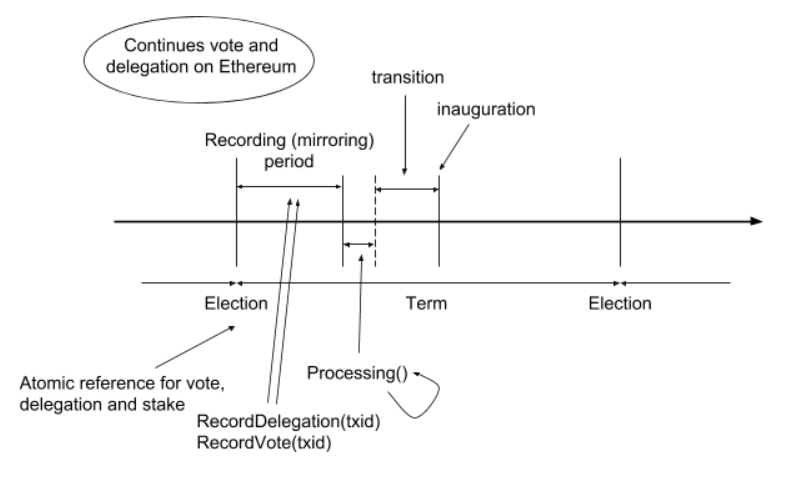
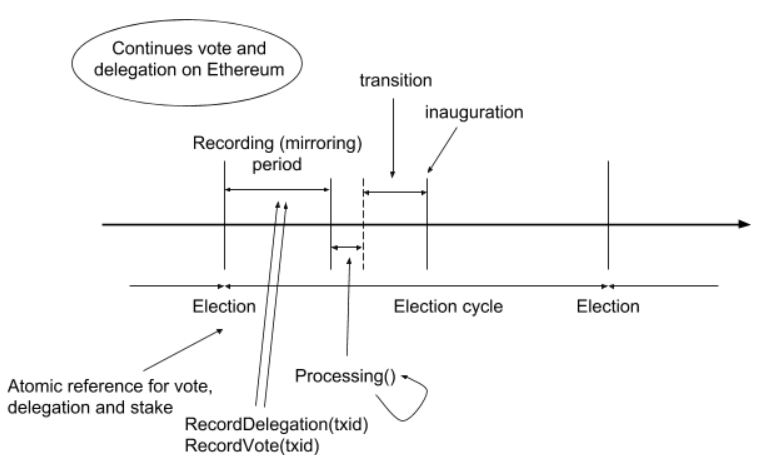
naming

Changed region(s): [[0.0, 0.1493, 0.9675, 0.9851], [0.0936, 0.0299, 0.4057, 0.2388]]

diff --git a/behaviors/flows/voting.md b/behaviors/flows/voting.md
@@ -1,6 +1,6 @@
 # Voting Flow
 
-The flow describes the voting for active delegates and nodes in Orbs.
+The flow describes the voting for activists and nodes in Orbs.
 
 ## Participants in this flow
 * Node candidates
@@ -11,8 +11,8 @@ The flow describes the voting for active delegates and nodes in Orbs.
   * An account that actively participates in Orbs voting.
   * An account is considered an active voter for a period of ACTIVE_VOTING_PERIOD days after voting.
   * Option to require active voters to undergo due-diligance.
-* Delegator
-  * An Orbs account / token holder that selected an active voter or anoher account (delegatee) to act on its behalf.
+* Stakeholder
+  * An Orbs account / stakeholder that selected an active voter or anoher account (delegatee) to act on its behalf.
 * Delegatee
   * An Orbs account that another account delegated its voting to.
 
@@ -23,26 +23,26 @@ The flow describes the voting for active delegates and nodes in Orbs.
 [hierarchical_voting]: ../_img/hierarchical_voting.png "hierarchical voting"
 
 #### Delegating votes
-* Every account (delegator) may delegate its stake to an another account
-  * Directly to an active voter or to another account.
+* Every stakeholder (address) may delegate its stake to an agent (address).
+  * The agent may be an activist or another stakeholder.
 * Delegation may be perfromed by 2 means:
   * Sending 7 Orbs-satoshi (7x10<sup>-18</sup> Orbs) to an address.
     * Generates a `Transfer(from, to, tokens = 7)` event.
   * Delegating by sending a transaction to Ethereum.OrbsVoring.delegate(address).
     * Generates a `Delegate(from, to)` event.
-* Delegation does not expire and requires delegation to another address in order to change it.
-  * Delegation to address 0 disables the delegation.
+* Delegation does not expire and requires delegation to another agent in order to change it.
+  * Delegation to address 0 cancels the delegation.
 * Once a delegation was performed by OrbsVoring contract it takes precedence over sending Orbs-stoshi (regardless of which action was performed later).
-* Note: the stake used for the voting is the delegator's stake at the election time. (and not the stake at the time of the delegation).
+* Note: the stake used for the voting is the stakeholder's stake at the election time. (and not the stake at the time of the delegation).
 
-#### Voting to nodes (by active voters)
-* An active delegate can vote by sending a transaction to Ethereum.OrbsVoring.vote([]address).
-* Optional: require the voter to be part of the verified_voters list.
-* A vote remains valid for 8 days (parameter.VOTING_VALIDITY_TIME)
-* The voting weight of a delegate is proportional to the total stake that was deleted to it. (hierarchical delegation)
-* Each delegate can vote to any numebr of nodes.
+#### Voting to nodes (by activists)
+* An activist can vote by sending a transaction to Ethereum.OrbsVoring.vote(address[]).
+  * Optional: require the activist to be part of the verified_activists list.
+* A vote remains valid for 8 days ~ 53169 blocks (parameter.VOTING_VALIDITY_TIME)
+* The voting weight of an activist is proportional to the total stake that was deleted to it. (hierarchical delegation)
+* Each activist can vote to any numebr of nodes.
 * Note: the voting weight is proportional to the number of voted nodes:
-  * When voting to N<=5(parameter.VOTES_PER_TOKEN) nodes, each node receives the delegates total voting weight.
+  * When voting to N<=5(parameter.VOTES_PER_TOKEN) nodes, each node receives the activist's total voting weight.
   * When voting to N>5 nodes, each node receives (5/N) of the weight.
 
 ## Election Flow
@@ -54,32 +54,33 @@ The flow describes the voting for active delegates and nodes in Orbs.
   * Election is performed every X Ethereum blocks, based on the state in block X.
     * Default: ~24 hours (in blocks)
   * Votes and delegations that were done up to the block_height (inclusive) take effect.
-* Votes Recording Period
-  * Starts after the election trigger for ~2 hours (600 blocks).
-  * During the recording period, the delegations, votes and stake are recorded on Orbs.
+* Votes Mirroring Period
+  * Starts after the election event for ~2 hours (554 blocks).
+  * During the mirroring period, the delegations and votes are recorded on Orbs.
 * Votes Proccesing
-  * Performed once the recording is complete.
+  * Performed once the mirroring period is complete.
   * Initiated by a set of transactions.
   * Record and stake, process and updates the elected nodes list.
 * Transition period
-* Apply new elected nodes (inauguration).
+  * The period between the end of the processing and election results and the commencement.
+* Apply new elected nodes (Commencement event).
 
 ## Recording the data on Orbs
 
 #### Recording delegation data on Orbs
 * Done by an off-chain application that monitors Ethereum's blocks.
-  * Sends corresponding transactions (generates the relevant events) to Orbs.VoteProcessing.recordDelegation(eth_txid)
-    * Sent during the `Votes Recording Period`.
+  * Sends corresponding transactions (generates the relevant events) to `Orbs.VoteProcessing.recordDelegate(txid)` and `Orbs.VoteProcessing.recordDelegateByTransfer(txid)`
+    * Sent before the end of the `Votes Mirroring Period`.
   * Anyone may send the transactions.
   * A transaction is considered final based on the Ethereum connector finality parameter (default 100).
-* The VoteProcessing contract reads the log and corresponding balance and stores:
-  * Delegators indexed list
-  * Delegator -> Delegatee map.
-  * Delegatee -> Delegator map.
+* The VoteProcessing contract reads the log and stores:
+  * Stakeholders list
+  * Stakeholder -> Agent map.
+  * Agent -> Stakeholders map.
 
 #### Recording voting data on Orbs
 * Done by an off-chain application that monitors Ethereum's blocks.
-  * Sends corresponding transactions (generates the relevant events) to Orbs.VoteProcessing.recordVote(eth_txid)
+  * Sends corresponding transactions (generates the relevant events) to `Orbs.VoteProcessing.recordVote(eth_txid)`
     * Sent during the `Votes Recording Period`.
   * Anyone may send the transactions.
   * A transaction is considered final based on the Ethereum connector finality parameter (default 100).
@@ -87,14 +88,14 @@ The flow describes the voting for active delegates and nodes in Orbs.
   * Voters list 
   * Voter -> nodes map.
 
-## Processing
-* Initiated be any sender upon complition of the votes recording period.
+## Processing()
+* Can be initiated by anyone upon complition of the votes mirroring period.
   * Span over a set of transactions (where the last one indicates complition)
-* Reads the stake for each delegator and voter at the election block.
-* Eleminates expired votes/
-* Calculates the delegated stake for each voter - the total stake of the delegation tree that points to it.
-  * Note: once a voter has voted it's delegation is ignored.
-* Record the election results in the nodes NodesRegistery along with the transition time in Orbs (A period of time after the last processing block).
+* Reads the stake for each stakeholder and activist at the time of the election block.
+* Eleminates expired votes.
+* Calculates the delegated stake for each activist - the total stake of the delegation tree that points to it.
+  * Note: once an activist has voted, it's delegation is ignored.
+* Record the election results in the NodesRegistery along with the transition Orbs block (A period of time after the last processing block).
 
 #### Rewards calculation
 > TBD

diff --git a/behaviors/smart-contracts/ethereum-contracts/voting.md b/behaviors/smart-contracts/ethereum-contracts/voting.md
@@ -2,8 +2,12 @@
 > Orbs voting is performed using the Etehreum platform as described in the [voting flow](../../flows/voting.md))
 
 &nbsp;
-### OrbsNodesCandidates
+### OrbsFederation
 > ownership: yes
+
+function isMember(address _member) external view returns (bool);
+
+
 
 #### addNode(address)
 > Access: public onlyOwner
@@ -40,7 +44,7 @@
 ### OrbsVoting
 > ownership: none
 
-#### Vote(address[] nodes)
+#### vote(address[] nodes)
 > Access:public
 > Enable an acount to cast a vote on the approved nodes.
 * Checks:
@@ -64,7 +68,7 @@
 > returns the current vote of an account alomg with the vote block_height.
 -->
 
-#### DelegateVote(address delegatee)
+#### delegate(address delegatee)
 > Access:public
 > Delegates the account stake to another account.
 * Checks: N/A
